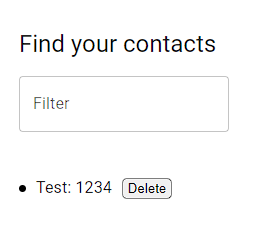
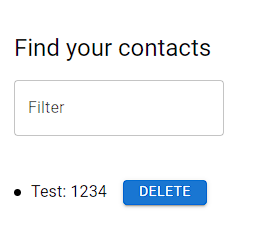
Added filter.png

diff --git a/src/components/Contact/Contact.jsx b/src/components/Contact/Contact.jsx
@@ -2,7 +2,7 @@ import PropTypes from 'prop-types';
 import { Fragment } from 'react';
 import { useDispatch } from 'react-redux';
 import { deleteContact } from 'redux/operations';
-import css from './Contact.module.css';
+import { Button } from '@mui/material';
 
 export const Contact = ({ contact }) => {
   const dispatch = useDispatch();
@@ -14,9 +14,14 @@ export const Contact = ({ contact }) => {
       <p>
         {contact.name}: {contact.number}
       </p>
-      <button type="button" onClick={handleDelete} className={css.button}>
+      <Button
+        type="button"
+        variant="contained"
+        onClick={handleDelete}
+        sx={{ marginLeft: 2, height: 25 }}
+      >
         Delete
-      </button>
+      </Button>
     </Fragment>
   );
 };
